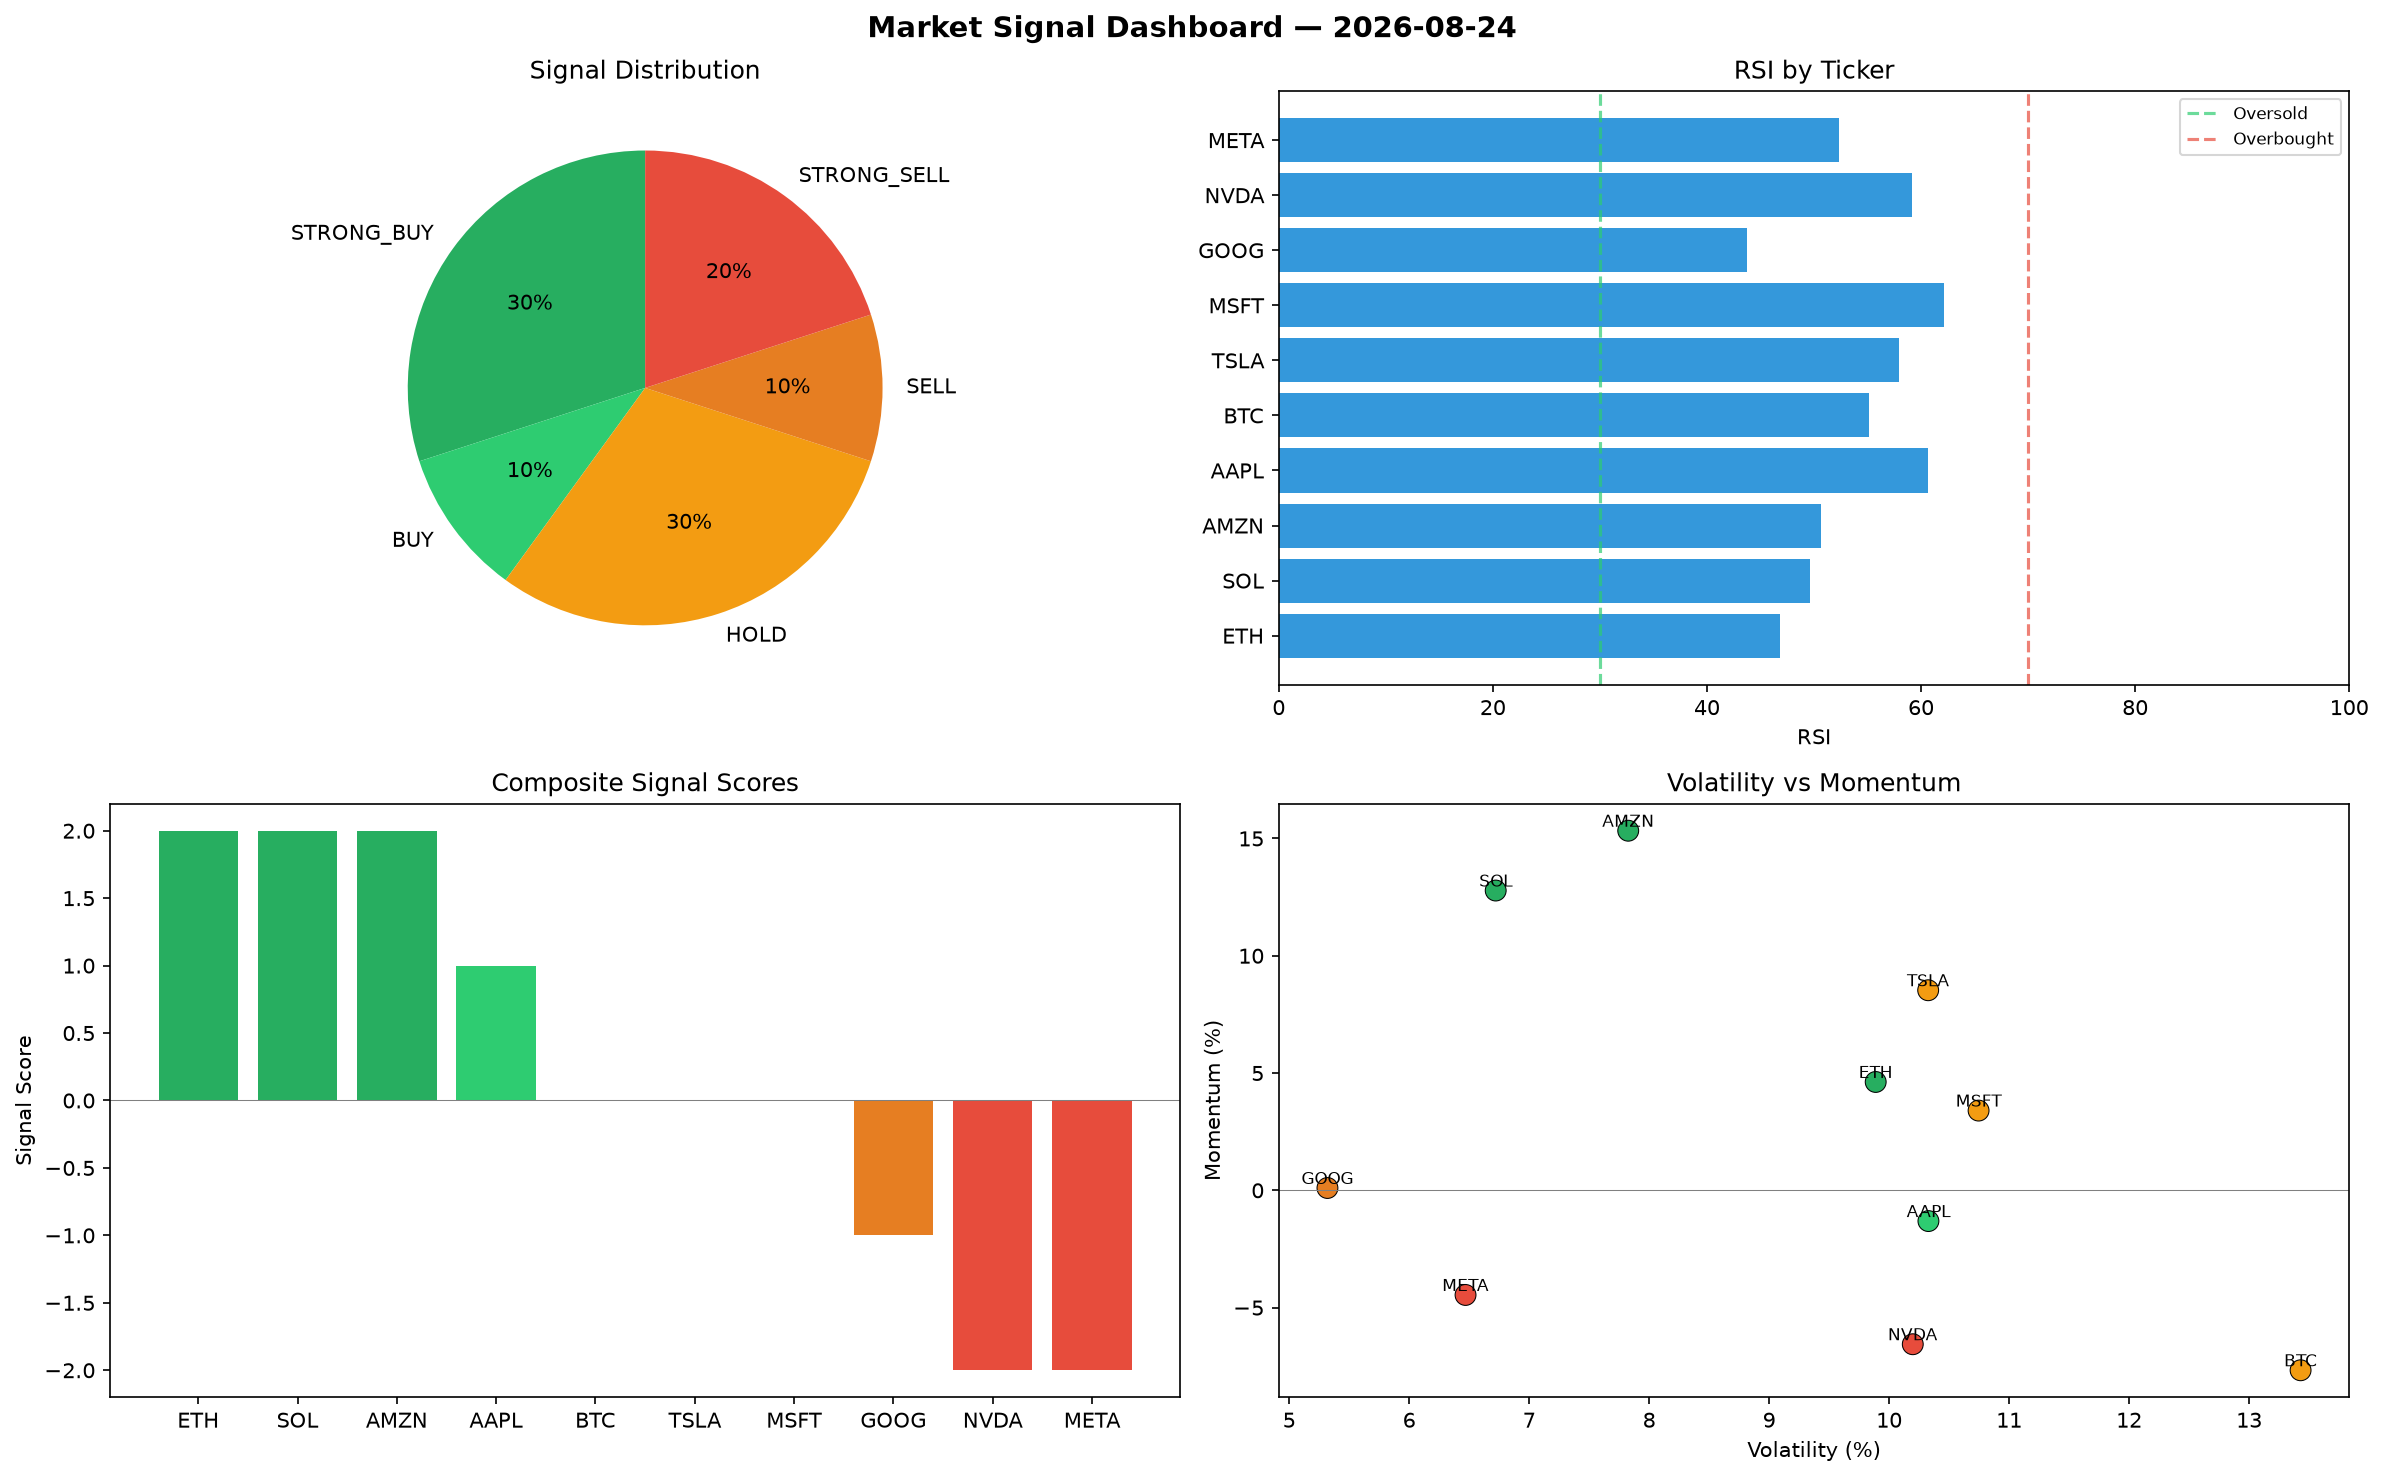
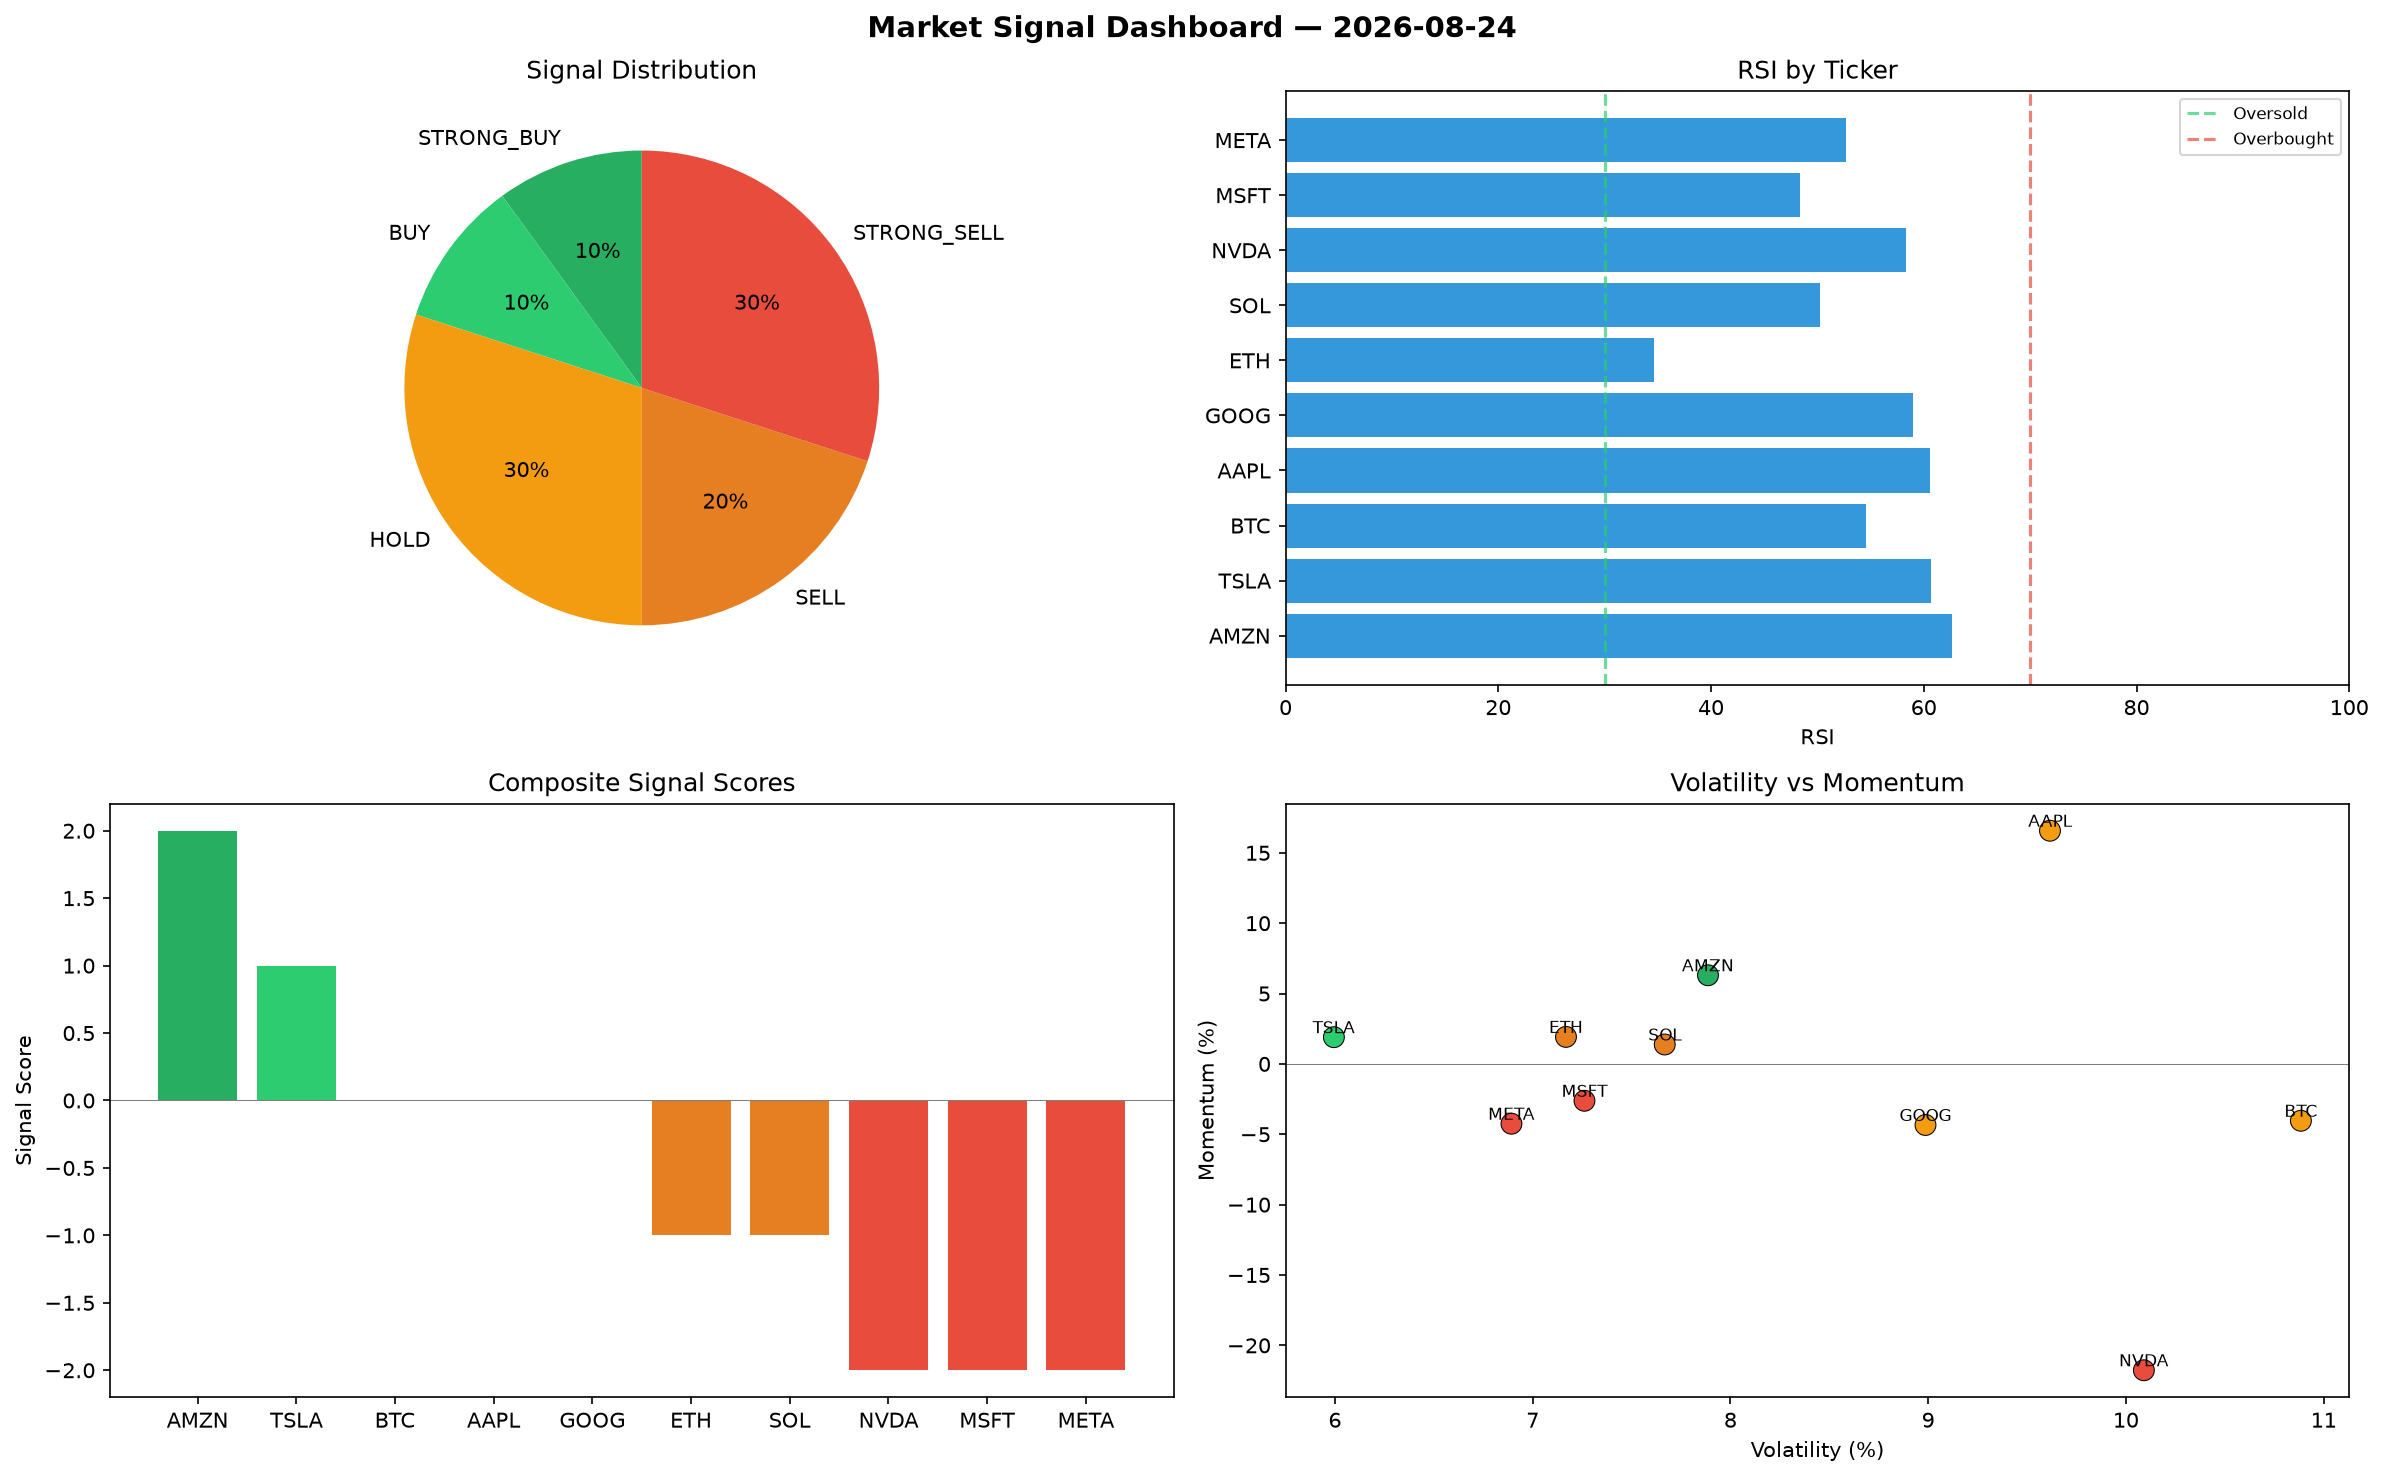
automated-bots: market signals 2026-08-24T15:10

diff --git a/logs/2026-08-24.md b/logs/2026-08-24.md
@@ -1,6 +1,6 @@
 # Market Signal Report — 2026-08-24
 
-**Run ID:** `5e5f764b0f` | **Buy:** 4 | **Sell:** 3 | **Hold:** 3
+**Run ID:** `2b1080857c` | **Buy:** 2 | **Sell:** 5 | **Hold:** 3
 
 ![Dashboard](2026-08-24_dashboard.png)
 
@@ -8,28 +8,28 @@
 
 | Ticker | Price | Signal | Score | RSI | Momentum | Confidence |
 |--------|-------|--------|-------|-----|----------|------------|
-| ETH | $148.63 | **STRONG_BUY** | 2 | 46.85 | 0.0462 | 0.5 |
-| SOL | $2735.47 | **STRONG_BUY** | 2 | 49.63 | 0.1278 | 0.5 |
-| AMZN | $120.96 | **STRONG_BUY** | 2 | 50.67 | 0.1533 | 0.5 |
-| AAPL | $746.68 | **BUY** | 1 | 60.63 | -0.0131 | 0.25 |
-| BTC | $194.09 | **HOLD** | 0 | 55.13 | -0.0767 | 0.0 |
-| TSLA | $4261.03 | **HOLD** | 0 | 57.93 | 0.0853 | 0.0 |
-| MSFT | $4448.62 | **HOLD** | 0 | 62.17 | 0.034 | 0.0 |
-| GOOG | $1052.64 | **SELL** | -1 | 43.75 | 0.001 | 0.25 |
-| NVDA | $2950.92 | **STRONG_SELL** | -2 | 59.11 | -0.0656 | 0.5 |
-| META | $949.79 | **STRONG_SELL** | -2 | 52.32 | -0.0446 | 0.5 |
+| AMZN | $4239.17 | **STRONG_BUY** | 2 | 62.68 | 0.063 | 0.5 |
+| TSLA | $2698.49 | **BUY** | 1 | 60.72 | 0.019 | 0.25 |
+| BTC | $2569.68 | **HOLD** | 0 | 54.61 | -0.0404 | 0.0 |
+| AAPL | $4950.51 | **HOLD** | 0 | 60.59 | 0.1657 | 0.0 |
+| GOOG | $89.67 | **HOLD** | 0 | 58.97 | -0.0434 | 0.0 |
+| ETH | $812.84 | **SELL** | -1 | 34.66 | 0.0192 | 0.25 |
+| SOL | $4707.46 | **SELL** | -1 | 50.24 | 0.0138 | 0.25 |
+| NVDA | $2662.93 | **STRONG_SELL** | -2 | 58.33 | -0.2177 | 0.5 |
+| MSFT | $1890.18 | **STRONG_SELL** | -2 | 48.38 | -0.0262 | 0.5 |
+| META | $2547.46 | **STRONG_SELL** | -2 | 52.72 | -0.0425 | 0.5 |
 
 ## Delta vs Yesterday
 
 | Ticker | Today | Yesterday | Price Change | Signal Changed |
 |--------|-------|-----------|-------------|----------------|
-| ETH | STRONG_BUY | STRONG_SELL | 📉 -94.82% | ⚠ YES |
-| SOL | STRONG_BUY | HOLD | 📉 -20.26% | ⚠ YES |
-| AMZN | STRONG_BUY | STRONG_BUY | 📉 -96.93% | — |
-| AAPL | BUY | STRONG_SELL | 📉 -52.51% | ⚠ YES |
-| BTC | HOLD | HOLD | 📉 -85.38% | — |
-| TSLA | HOLD | HOLD | 📈 342.33% | — |
-| MSFT | HOLD | SELL | 📈 320.45% | ⚠ YES |
-| GOOG | SELL | SELL | 📈 0.05% | — |
-| NVDA | STRONG_SELL | BUY | 📉 -26.65% | ⚠ YES |
-| META | STRONG_SELL | STRONG_BUY | 📉 -61.91% | ⚠ YES |
+| AMZN | STRONG_BUY | STRONG_BUY | 📈 7.48% | — |
+| TSLA | BUY | HOLD | 📈 180.12% | ⚠ YES |
+| BTC | HOLD | HOLD | 📈 93.59% | — |
+| AAPL | HOLD | STRONG_SELL | 📈 214.87% | ⚠ YES |
+| GOOG | HOLD | SELL | 📉 -91.48% | ⚠ YES |
+| ETH | SELL | STRONG_SELL | 📉 -71.69% | ⚠ YES |
+| SOL | SELL | HOLD | 📈 37.23% | ⚠ YES |
+| NVDA | STRONG_SELL | BUY | 📉 -33.81% | ⚠ YES |
+| MSFT | STRONG_SELL | SELL | 📈 78.65% | ⚠ YES |
+| META | STRONG_SELL | STRONG_BUY | 📈 2.17% | ⚠ YES |
